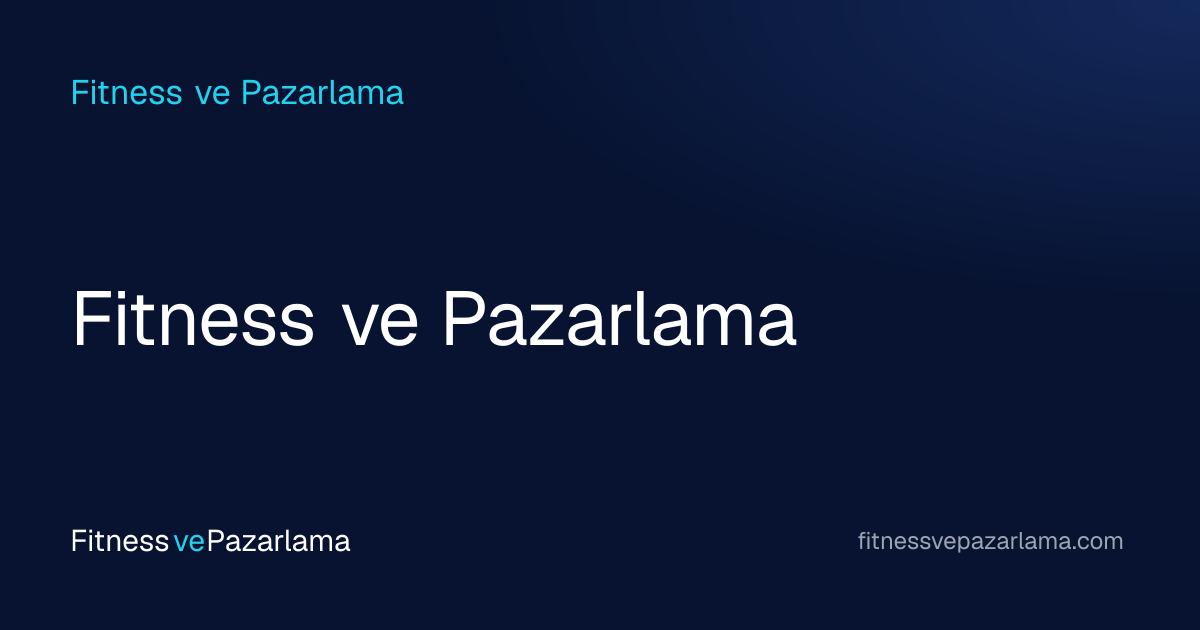
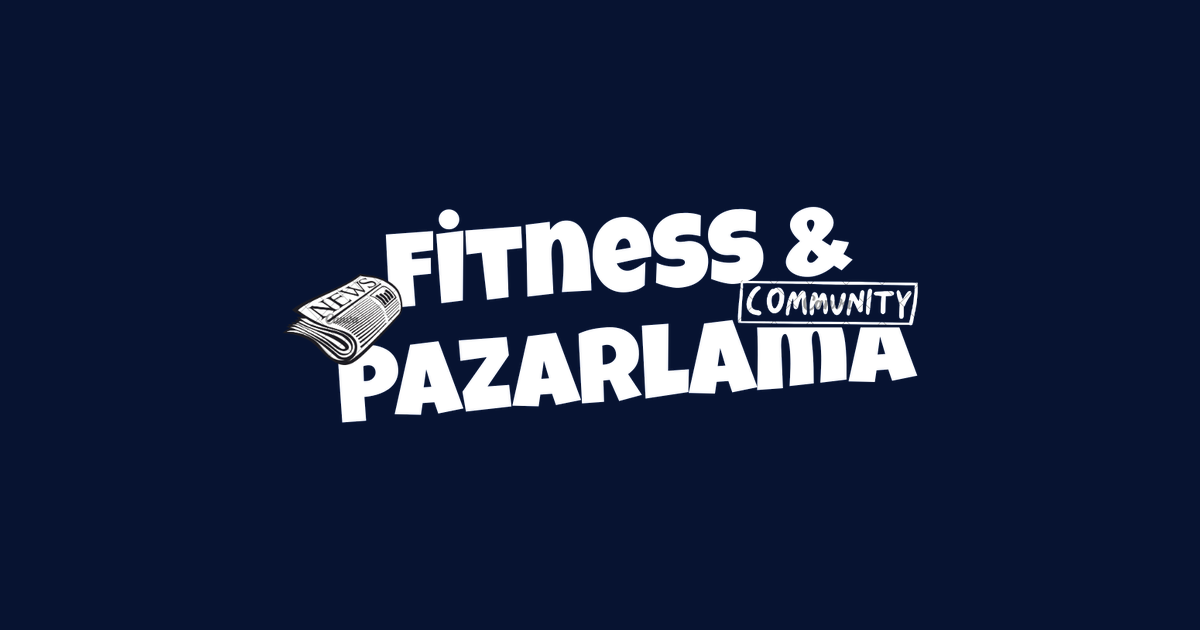
OG: FvP logolu gorsel + fb:app_id + og:url tamamlandi

diff --git a/app/podcast/[slug]/page.tsx b/app/podcast/[slug]/page.tsx
@@ -27,7 +27,8 @@ export async function generateMetadata({ params }: { params: Promise<{ slug: str
       title: ep.title,
       description: ep.description || "",
       type: "article",
-      images: ep.coverImage ? [urlFor(ep.coverImage).width(1200).height(630).url()] : [],
+      url: `https://fitnessvepazarlama.com/podcast/${slug}`,
+      images: ep.coverImage ? [urlFor(ep.coverImage).width(1200).height(630).url()] : ["/og-default.png"],
     },
   };
 }

diff --git a/app/layout.tsx b/app/layout.tsx
@@ -45,6 +45,7 @@ export const metadata: Metadata = {
     title: "Fitness ve Pazarlama",
     images: ["/og-default.png"],
   },
+  other: { "fb:app_id": "1467973188448472" },
   icons: { icon: "/favicon.png", apple: "/apple-touch-icon.png" },
 };
 